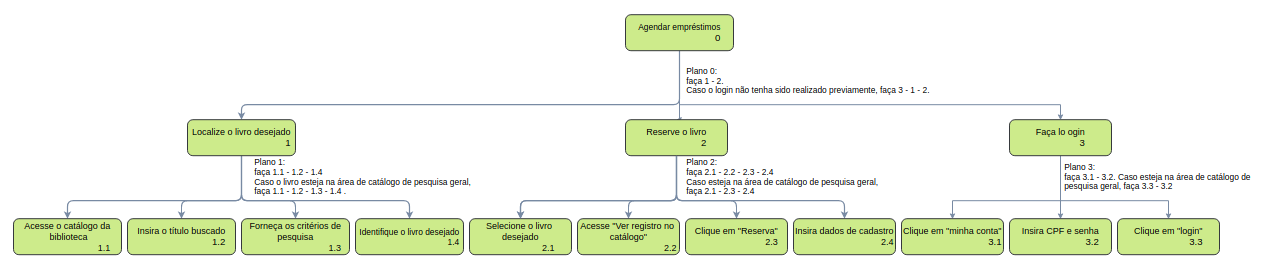
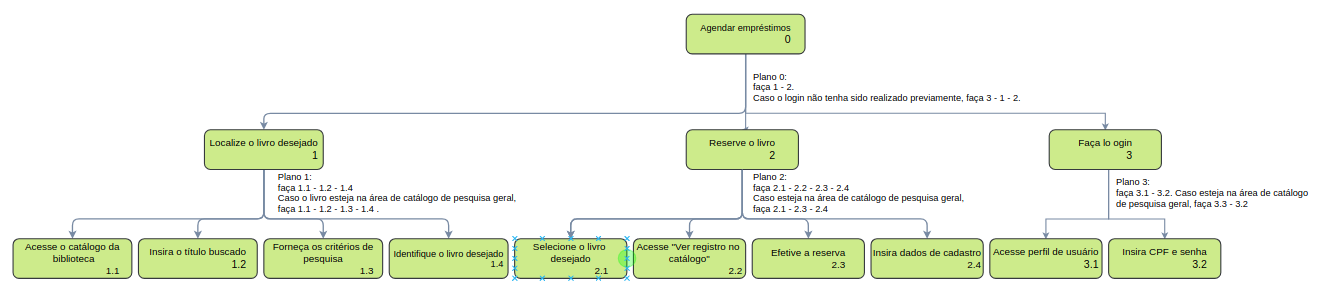
Atualiza  analise de tarefas

Changed region(s): [[0.0, 0.2388, 1.0, 0.9552], [0.4933, 0.0299, 0.6166, 0.209]]

diff --git a/docs/pages/ponto_de_controle_2/analise_tarefas.md b/docs/pages/ponto_de_controle_2/analise_tarefas.md
@@ -30,12 +30,11 @@ Esta análise parte dos objetivos do usuário para identificar as tarefas que de
 <br>&emsp;&emsp;**2.** Reserve o livro
 <br>&emsp;&emsp;&emsp;**2.1** Selecione o livro desejado
 <br>&emsp;&emsp;&emsp;**2.2** Acesse "Ver o registro no catálogo"
-<br>&emsp;&emsp;&emsp;**2.3** Clique em "reserva"
+<br>&emsp;&emsp;&emsp;**2.3** Efetive a reserva
 <br>&emsp;&emsp;&emsp;**2.4** Insira os dados de cadastro
 <br>&emsp;&emsp;**3.** Faça login
-<br>&emsp;&emsp;&emsp;**3.1** Clique em "minha conta"
+<br>&emsp;&emsp;&emsp;**3.1** Acesse perfil do usuário
 <br>&emsp;&emsp;&emsp;**3.2** Insira CPF e senha
-<br>&emsp;&emsp;&emsp;**3.3** Clique em "login"
 
 Plano 0: faça 1 - 2. Caso o login não tenha sido realizado previamente, faça 3 - 1 - 2.
 <br>Plano 1: faça 1.1 - 1.2 - 1.4. Caso esteja na área de catálogo de pesquisa geral, faça 1.1 - 1.2 - 1.3 - 1.4.
@@ -45,12 +44,12 @@ Plano 0: faça 1 - 2. Caso o login não tenha sido realizado previamente, faça 
 #### 2.1.2 Representação textual do objetivo de renovação do prazo de devolução:
 
 **0.** Renovar prazo de devolução
-<br>&emsp;&emsp;**1.** Realize login de acesso
+<br>&emsp;&emsp;**1.** Acesse perfil do usuário
 <br>&emsp;&emsp;&emsp;**1.1** Clique em "minha conta"
 <br>&emsp;&emsp;&emsp;**1.2** Insira CPF e senha
-<br>&emsp;&emsp;**2.** Identifique o livro desejado na área "títulos pendentes"
-<br>&emsp;&emsp;**3.** Clique em "Renovar"
-<br>&emsp;&emsp;**4.** Verifique o status de renovação realizada
+<br>&emsp;&emsp;**2.** Identifique o livro desejado
+<br>&emsp;&emsp;**3.** Renove o prazo
+<br>&emsp;&emsp;**4.** Verifique o status de renovação
 <br>&emsp;&emsp;&emsp;**4.1** Receba por email o recibo de renovação
 
 Plano 0: faça 1 - 2 - 3 - 4.
@@ -68,29 +67,30 @@ Plano 0: faça 1 - 2 - 3 - 4.
     </figcaption>
 </p>
 
+OBS.: [Representação do objetivo 1 de forma expandida](https://github.com/Interacao-Humano-Computador/2020.1-BCE/blob/master/docs/_media/images/AHT_objetivo1.png)
+
 <hr>
 
 <p text-align="right">
 
 | Objetivos/ operações | Problemas e recomendações |
 |:--------------------:|:-------------------------:|
-| 0. Agendar empréstimo | - |
-| 1. Localize o livro desejado | <p align="left"> **Input**: entre na página principal da BCE </p>|
-| 1.1 Acesse o catálogo da biblioteca |<p align="left"> **Input**: clique na barra de pesquisa da área intitulada "pesquisa integrada" ou "catálogo online". </p>|
-| 1.2 Insira o título buscado | <p align="left"> **input**: insira o nome do título buscado na barra de pesquisa <br>**Feedback**: aparecerá uma lista de livros que contenham o título digitado. <br>**Problema**: uma nova aba será aberta no navegador. </p>|
-| 1.3 Identifique na lista o livro desejado | <p align="left"> **Plano**: caso esteja no catálogo de pesquisa geral, preencha os campos existentes com critérios de busca mais específicos. </p>|
-| 2. Reserve o livro | - |
-| 2.1 Selecione o livro desejado | <p align="left"> **Input**: clique no título desejado. <br>**Feedback**: aparecerão as informações gerais do livro. </p>|
-| 2.2 Acesse "Ver o registro no catálogo" | <p align="left"> **Feedback**: abrirá um *pop-up* com dados do acervo. <br>**Recomendações**: os itens da barra inferior devem estar mais em evidência para o usuário. <br>A opção de reserva deveria estar presente sem a necessidade de acessar via "registro no catálogo".<br>**Problema**: uma terceira aba é aberta no navegador.</p>|
-| 2.3 Clique em "reserva" | <p align="left"> **Feedback**: aparecerá um *pop-up* com informações de localização e tipo do livro. </p>|
-| 2.4 Insira os dados de cadastro | <p align="left"> **Input**: digite o CPF e a senha cadastrados na biblioteca. Em seguida, aperte em "confirmar". <br>**Feedback**: caso o login não tenha sido feito previamente, aparecerá a mensagem "Reserva Cancelada. O usuário não pode reservar este tipo de obra desta biblioteca". </p>|
-| 3. Faça o login | - | 
-| 3.1 Clique em "minha conta" | <p align="left"> **Feedback**: caso queira realizar o login antes de pesquisar um livro, clique em "minha conta" e será redirecionado para a será redirecionado para uma página de autenticação contendo espaços para CPF e senha </p>|
-| 3.2 Insira CPF e senha | <p align="left"> **Feedback**: após confirmar, será redirecionado para a área de perfil do usuário.**Problema**: quando direcionado para a área de perfil após fazer login, não existem meios de retornar à busca, é preciso retornar para a página principal do site direto pela barra URL.**Recomendações**: a logo da UnB à esquerda poderia redirecionar o usuário para a página incial, onde é possível realizar a busca por materiais. </p>|
-| 3.3 Clique em "login" | <p align="left"> **Input**: caso tenha realizado a pesquisa e queira reservar um livro mas não tenha realizado login, clique sobre o botão "fechar" do *pop-up* com as informações de localização e tipo do livro que estará aberta. Em seguida clique no botão "login" no canto superior direito. <br>**Feedback**: aparecerá um *pop-up* solicitando informações cadastrais. Após confirmação, aparecerá o nome do usuário no canto superior direito em uma barra verde. </p>|
+| 0. Agendar empréstimo | |
+| 1. Localize o livro desejado | <p align="left"> **Input**: página principal da BCE aberta </p>|
+| 1.1 Acesse o catálogo da biblioteca |<p align="left"> **Input**: área intitulada "pesquisa integrada" ou "catálogo online"; <br> **Action**: clicar em uma das duas áreas disponíveis e clicar sobre a barra de pesquisa logo abaixo do nome da área.</p>|
+| 1.2 Insira o título buscado | <p align="left"> **Input**: barra de pesquisa; <br> **Action**: insira o nome do título buscado na barra de pesquisa; <br>**Feedback**: aparecerá uma lista de livros que contenham o título digitado; <br>**Problema**: uma nova aba será aberta no navegador;<br> **Recomendação**: modificar o caminho de acesso para que o usuário seja redirecionado para uma tela na mesma aba do navegador. </p>|
+| 1.3 Identifique na lista o livro desejado | <p align="left"> **Input**: lista de livros buscados;<br> **Plano**: caso esteja no catálogo de pesquisa geral, preencha os campos existentes com critérios de busca mais específicos;<br> **Problema**: os livros encontrados não possuem imagem da capa; <br> **Recomendação**: acrescentar a imagem da capa para facilitar a identificação.</p>|
+| 2. Reserve o livro | <p align="left"> **Input**: lista de livros buscados.</p> |
+| 2.1 Selecione o livro desejado | <p align="left"> **Input**: livro desejado já identificado na lista; <br> **Action**: clique sobre o título desejado;<br>**Feedback**: será direcionado para uma tela contendo as informações gerais do livro.<br> **Problema**: as informações estão dispostas de maneira pouco visual;<br> **Recomendação**: dispor as informações de forma mais visual, evitando assim, uso excessivo de espaço e dando mais visibilidade às informações de localização do exemplar.</p>|
+| 2.2 Acesse "Ver o registro no catálogo" | <p align="left"> **Input**: tela contendo as informações do livro desejado;<br> **Action**: clique em "ver registro no catálogo" localizado no canto superior esquerdo; <br>**Feedback**: abrirá uma tela com dados do acervo; <br> **Problema**: os itens da barra inferior deveriam estar mais em evidência para o usuário. Uma terceira aba é aberta no navegador; <br>**Recomendações**: evidenciar a opção de "reserva" quando abertas as informações do livro e disponibilizar esta opção na tela anterior, após seleção do livro desejado. Assim, não haverá necessidade de acessar a área "registro no catálogo".</p>|
+| 2.3 Efetive a     reserva | <p align="left"> **Input**: tela de dados do acervo aberta;<br>**Action**: clique em "Reserva";<br> **Feedback**: aparecerá uma tela com informações de localização e tipo do livro. </p>|
+| 2.4 Insira os dados de cadastro | <p align="left"> **Input**: tela com informações de localização e tipo do livro; <br>**Action**: digite o CPF e a senha cadastrados na biblioteca. Em seguida, aperte em "confirmar". <br>**Feedback**: caso o login não tenha sido feito previamente, aparecerá a mensagem "Reserva Cancelada. O usuário não pode reservar este tipo de obra desta biblioteca". Em caso de sucesso, aparecerá uma mensagem confirmando a reserva e o prazo para retirada do exemplar.</p>|
+| 3. Faça o login |  | 
+| 3.1 Acesse perfil do usuário | <p align="left"> **Input**: página principal da BCE ou área de "Pesquisa Geral";<br> **Plano**: caso esteja na página principal da BCE, clique em "minha conta" localizada no canto superior direito. Caso esteja na área de "Pesquisa Geral", clique na tecla "login" localizada no canto superior direito;<br>**Feedback**: em caso de login realizado a partir da tela principal, será redirecionado para uma página de autenticação contendo espaços para CPF e senha. Em caso de login realizado pela tela de "Pesquisa geral" (após buscado o livro), aparecerá um *pop-up* com espaço para CPF e senha.</p>|
+| 3.2 Insira CPF e senha | <p align="left"> **Input**: página redireciona a partir da principal da BCE ou *pop-up* da área de "Pesquisa Geral; <br>**Feedback**: após confirmar, será redirecionado para a área de perfil do usuário. A confirmação é indicada ao surgir o nome do usuário no canto superior direito em uma barra verde.**Problema**: quando direcionado após fazer login, não existem meios de retornar à busca, é preciso retornar para a página principal da BCE direto pela barra URL;**Recomendações**: a logo da UnB localizada na parte esquerda esquerda poderia redirecionar o usuário para a página incial, onde é possível realizar a busca por materiais.</p>|
 
 <figcaption align='center'>
-    <b>Tabela 1: Problemas e recomendações da tarefa de agendamento de empréstimos</b>
+    <b>Tabela 1: Problemas e recomendações do objetivo de agendamento de empréstimos</b>
     <br> 
     Fonte: Elaboração própria
 </figcaption>
@@ -109,15 +109,14 @@ Plano 0: faça 1 - 2 - 3 - 4.
 
 | Objetivos/ operações | Problemas e recomendações |
 |:--------------------:|:-------------------------:|
-| 0. Renovar prazo de devolução | - |
-| 1. Realize login de acesso | <p align="left"> **Input**: acesse a página inicial da BCE. </p> |
-| 1.1 Clique em "minha conta" | <p align="left"> **Feedback**: será redirecionado para a área de autenticação da CPF e senha. </p>|
-| 1.2 Insira CPF e senha | <p align="left"> **Feedback**: será redirecionado para a área de perfil do usuário. </p>|
-| Identifique o livro desejado na área "títulos pendentes". | <p align="left"> **Feedback**: assim que entrar na área de perfil do usuário haverá as informações sobre livros emprestados e ainda não devolvidos. Ao lado de todos haverá o botão "renovar". </p>|
-| 3. Clique em "Renovar" | <p align="left"> **Feedback**: aparecerá um *pop-up* informando o status de renovação, aprovada ou não. </p>| 
-| 4. Verifique o status de renovação realizada | <p align="left"> **Feedback**: aparecerá uma mensagem indicando renovação ou não do livro e a opção de enviar comprovante por email.</p>|
+| 0. Renovar prazo de devolução |  |
+| 1. Acesse perfil do usuário | <p align="left"> **Input**: página inicial da BCE;<br>**Action**: clique em "minha conta" localizada no canto superior direito;<br>**Feedback**: será redirecionado para a área de autenticação da CPF e senha. </p> |
+| 1.1 Insira CPF e senha | <p align="left"> **Input**: página redireciona a partir da principal da BCE;<br>**Feedback**: ao logar, será redirecionado para a área de perfil do usuário. </p>|
+| 2. Identifique o livro desejado | <p align="left"> **Input**: página de perfil do usuário aberta;<br>**Action**: clique sobre a área "títulos pendentes"; **Feedback**: haverá uma lista com informações sobre livros emprestados e ainda não devolvidos. Ao lado de cada título haverá o botão "renovar".</p>|
+| 3. Renove o prazo | <p align="left"> **Input**: livro identificado na lista "Títulos pendentes";<br>**Feedback**: aparecerá um *pop-up* informando o status de renovação, aprovada ou não. </p>| 
+| 4. Verifique o status de renovação | <p align="left"> <br>**Feedback**: aparecerá uma mensagem indicando renovação ou não do livro e a opção de enviar comprovante por email;<br>**Plano**: caso queira receber por email a confirmação de renovação, clique na opção "receber por email"</p>|
 <figcaption align='center'>
-    <b>Tabela 2: Problemas e recomendações da tarefa de renovação do prazo de devolução</b>
+    <b>Tabela 2: Problemas e recomendações do objetivo de renovação do prazo de devolução</b>
     <br> 
     Fonte: Elaboração própria
 </figcaption>
